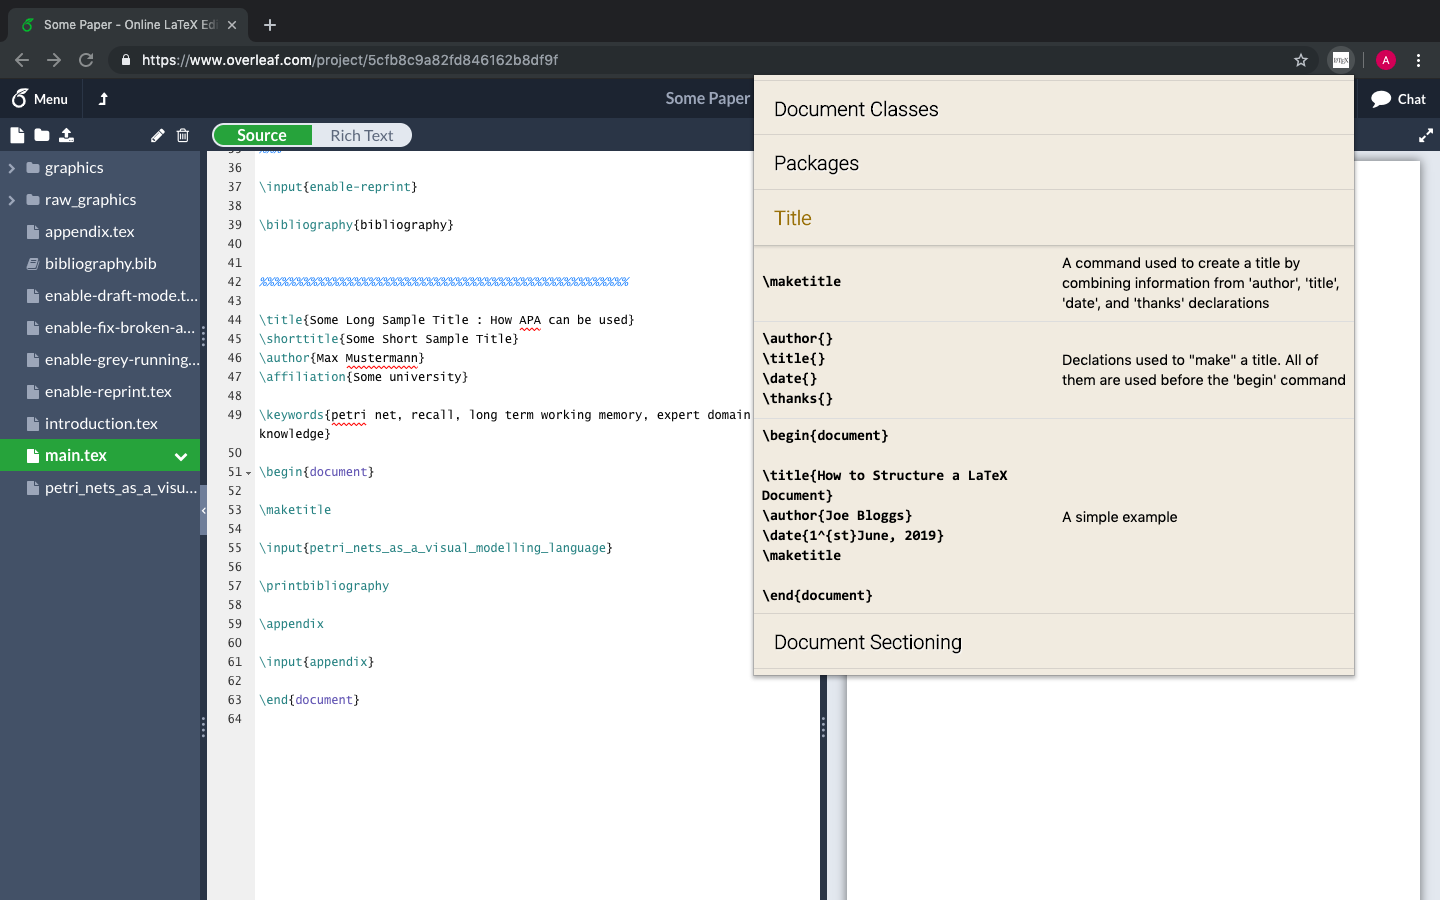
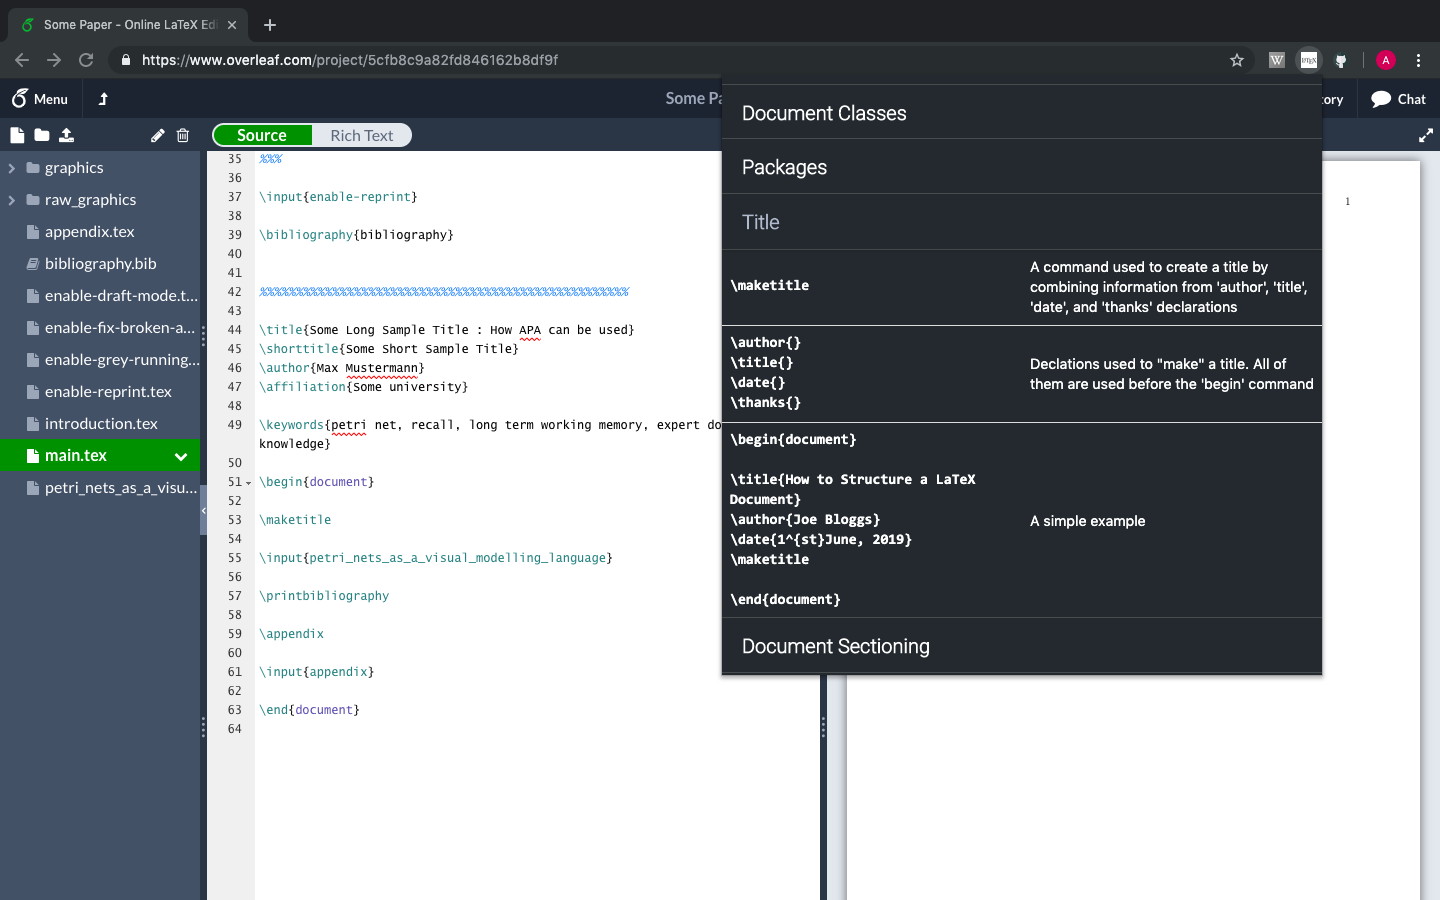
UI update
Major color code change

diff --git a/src/css/accordian.css b/src/css/accordian.css
@@ -1,22 +1,23 @@
   html, body {
-    background-color: transparent;
     margin: 0;
     padding: 0;
-    background-color: #ffffff;
+    background-color: #24292e;
   }
 
   a:link {
   text-decoration: underline;
-  color: #000000;
+  color: #FFFFFF;
   }
 
   a:visited {
     text-decoration: none;
-    color: #000000;
+    color: #FFFFFF;
   }
 
   a:hover {
     text-decoration: none;
+    color: #b3bccc;
+
   }
 
   .ac-container{
@@ -33,12 +34,11 @@
     display: block;
     height: 31.5px;
     cursor: pointer;
-    color: #000000;
+    color: #FFFFFF;
     font-weight: bold;
-    text-shadow: 1px 1px 1px rgba(255,255,255,0.8);
     line-height: 33px;
     font-size: 20px;
-    background: #ffffff;
+    background-color: #24292e;
     box-shadow:
       0px 0px 0px 1px rgba(155,155,155,0.3),
       0px 2px 2px rgba(0,0,0,0.1);
@@ -57,17 +57,14 @@
   }
 
   .ac-container label:hover{
-    background: #ffffff;
+    background-color: #24292e;
+    color: #b3bccc;
   }
 
   .ac-container input:checked + label,
   .ac-container input:checked + label:hover{
-    background: #ffffff;
-    color: #000000;
-    text-shadow: 0px 1px 1px rgba(255,255,255, 0.6);
-    box-shadow:
-      0px 0px 0px 1px rgba(155,155,155,0.3),
-      0px 2px 2px rgba(0,0,0,0.1);
+    background-color: #24292e;
+    color: #b3bccc;
     transition: color 0.2s linear;
 
   }
@@ -79,38 +76,29 @@
     height: 24px;
     right: 13px;
     top: 7px;
+    color: #b3bccc;
   }
   .ac-container input{
     display: none;
   }
 
   .ac-container article{
-    background: #ffffff;
+    background-color: #24292e;
     margin-top: -1px;
     overflow: hidden;
     height: 0px;
     position: relative;
     z-index: 10;
     -webkit-transition: height 0.4s ease-in-out, box-shadow 0.6s linear;
-    -moz-transition: height 0.4s ease-in-out, box-shadow 0.6s linear;
-    -o-transition: height 0.4s ease-in-out, box-shadow 0.6s linear;
-    -ms-transition: height 0.4s ease-in-out, box-shadow 0.6s linear;
-    transition: height 0.4s ease-in-out, box-shadow 0.6s linear;
   }
 
   .ac-container article p{
-    color: #000000;
+    color: #ffffff;
     line-height: 23px;
     font-size: 15px;
     padding: 0 10px;
-    text-shadow: 1px 1px 1px rgba(255,255,255,0.8);
   }
 
   .ac-container input:checked ~ article{
     -webkit-transition: height 0.5s ease-in-out, box-shadow 0.1s linear;
-    -moz-transition: height 0.5s ease-in-out, box-shadow 0.1s linear;
-    -o-transition: height 0.5s ease-in-out, box-shadow 0.1s linear;
-    -ms-transition: height 0.5s ease-in-out, box-shadow 0.1s linear;
-    transition: height 0.5s ease-in-out, box-shadow 0.1s linear;
-    box-shadow: 0px 0px 0px 1px rgba(155,155,155,0.3);
   }

diff --git a/src/css/layout.css b/src/css/layout.css
@@ -6,14 +6,15 @@
   label[for="ac-head"] {
     font-size: 2.1em;
     margin: 0;
-    background-color: #ffffff;
+    background-color: #24292e;
     border: none;
   }
 
   label[for="ac-head"]:hover {
     font-size: 2.1em;
     margin: 0;
-    background-color: #ffffff;
+    background-color: #24292e;
+    color: #b3bccc;
     border: none;
   }
 
@@ -33,23 +34,23 @@
     vertical-align: middle;
     border-top: 1.2px solid #DDD;
     font-size: 1.2em;
-    color: #000000;
+    color: #FFFFFF;
   }
 
   table tbody tr td:first-child {
     width: 50%;
-    color: #000000;
+    color: #FFFFFF;
     font-size: 1.2em;
     font-weight: bold;
     font-family: Consolas;
   }
 
   table tbody tr td:first-child span:first-child {
-    color: #000000;
+    color: #FFFFFF;
   }
 
   table tbody tr td:first-child span:nth-child(2) {
-    color: #000000;
+    color: #FFFFFF;
   }
 
   .ac-container div:nth-child(2) table tbody tr td:first-child {
@@ -85,15 +86,15 @@
   }
 
   .ac-container input:checked#ac-6 ~ article {
-    height: 260px;
+    height: 280px;
   }
 
   .ac-container input:checked#ac-7 ~ article {
-    height: 860px;
+    height: 880px;
   }
 
   .ac-container input:checked#ac-8 ~ article {
-    height: 1330px;
+    height: 1350px;
   }
 
   .ac-container input:checked#ac-9 ~ article {
